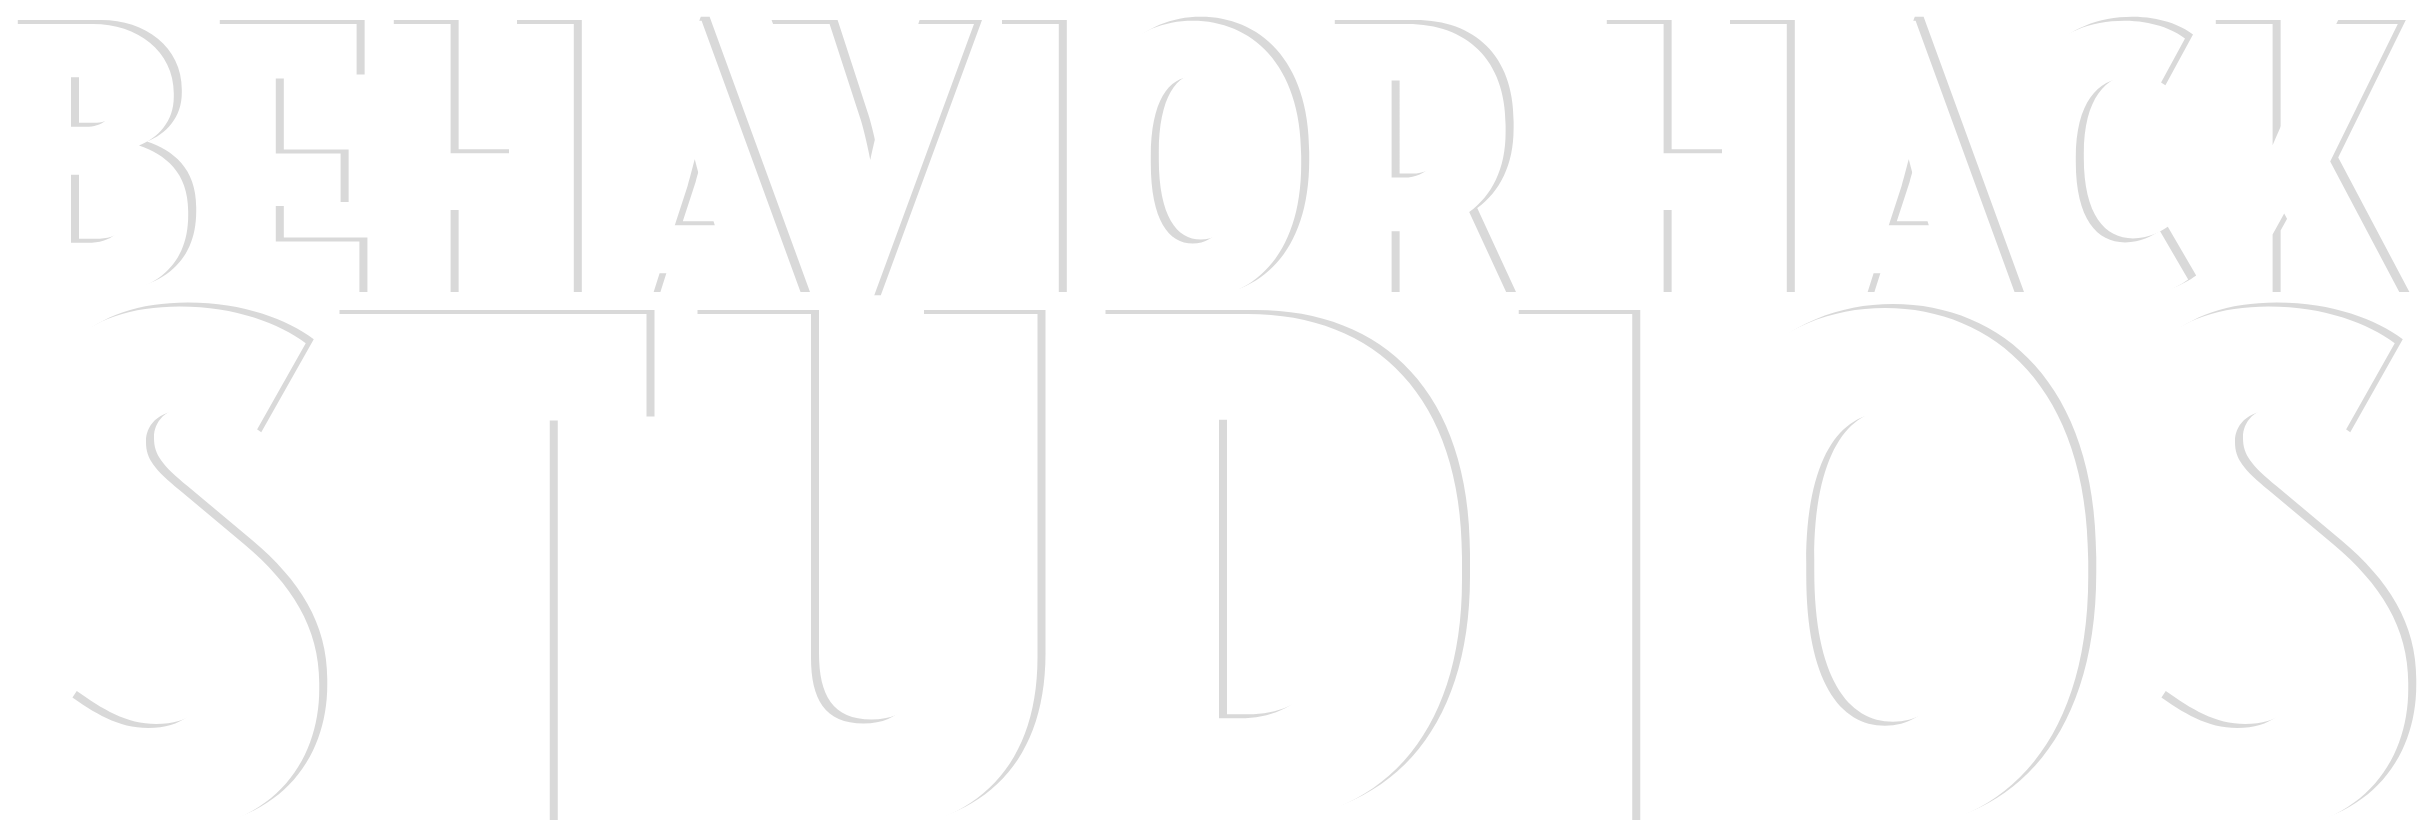
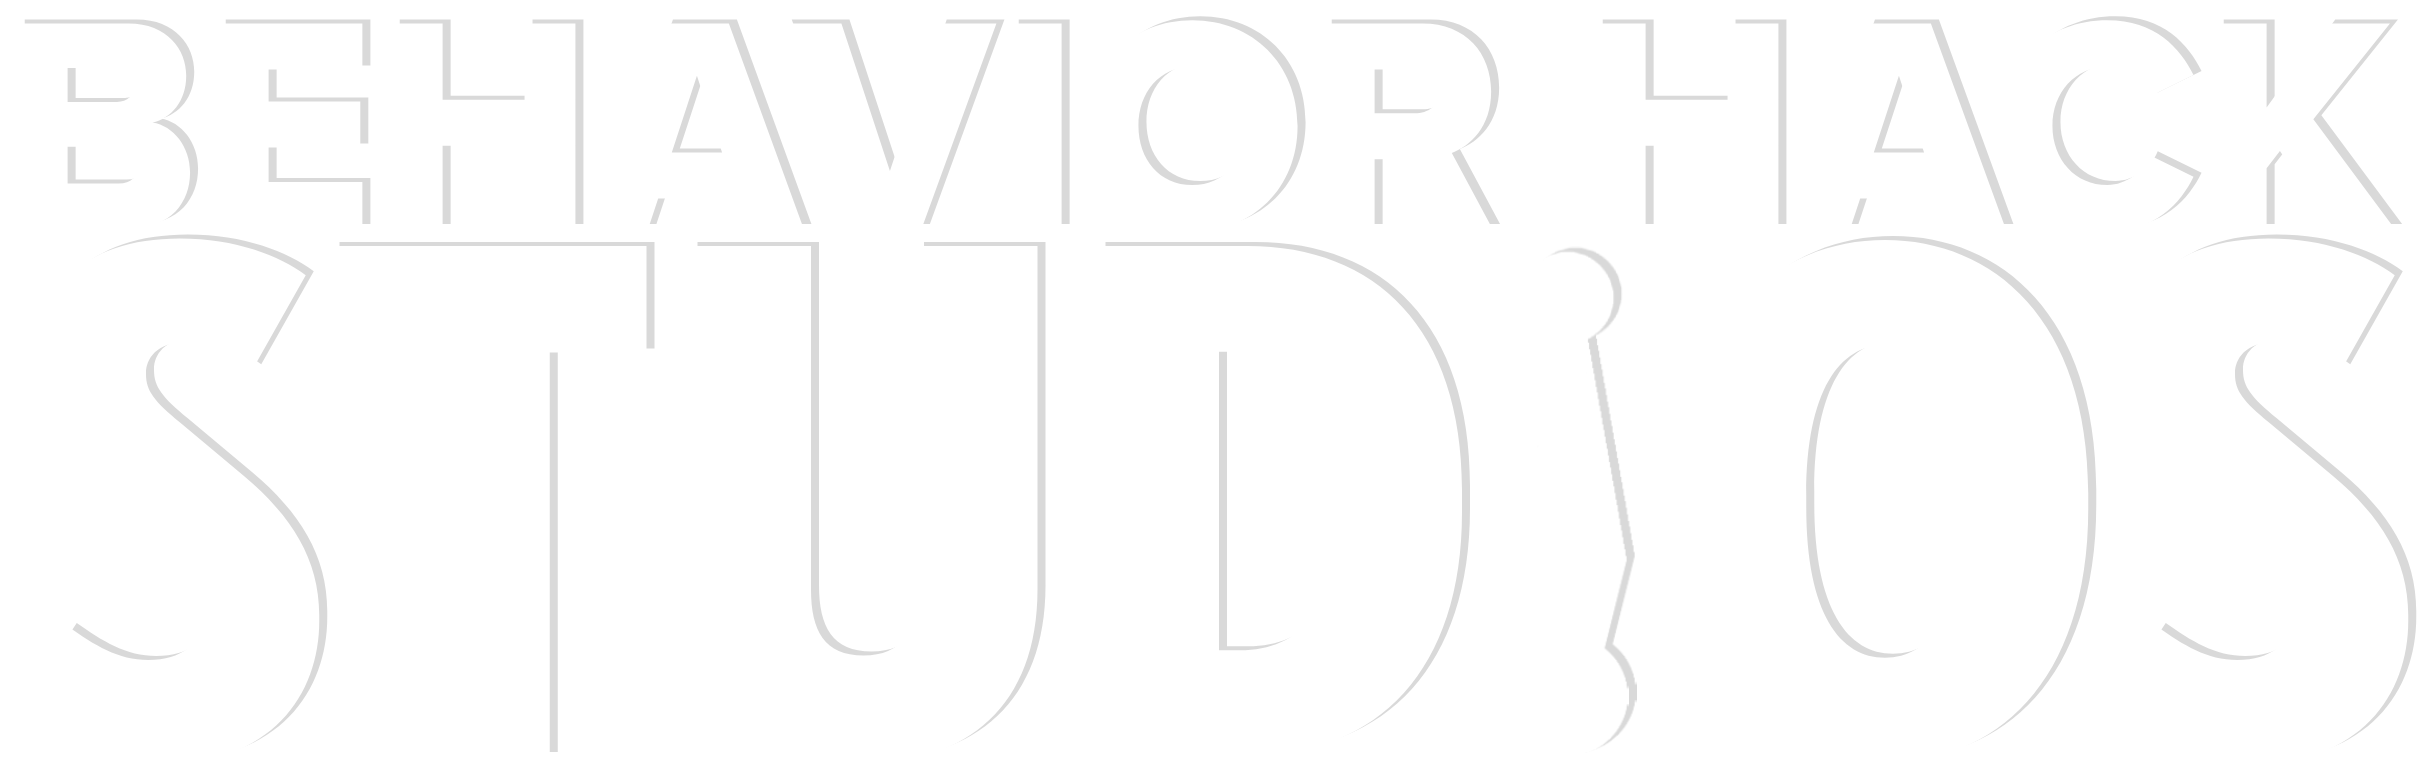
ss
ss

diff --git a/index.html b/index.html
@@ -126,7 +126,7 @@
     <main>
       <section class="hero" id="home">
         <div class="hero-card">
-          <h1>Behavior Hack Studios</h1>
+          <h1>Who are we?</h1>
           <p>Hello! We are a very small group of passionate indie developers who for the last while have been working on a ton of Skylanders fangames!</p>
           <p style="margin-top:8px">We eventually want to branch off and do our own things, We LOVE Skylanders more than we can express, but the world needs our talent, our ideas, and the worlds we make. Please, click below to check out some of our projects!</p>
           <a class="cta" href="#Projects">EXPLORE PROJECTS</a>
@@ -134,7 +134,7 @@
           <div style="margin-top:18px;display:flex;gap:10px;flex-wrap:wrap">
             <div style="background:rgba(135, 115, 226, 0.185);padding:10px;border-radius:12px;min-width:120px">
               <strong>Game Engines We Use:</strong>
-              Unity, TFBtool, Unreal Engine 5
+              Unity, TFBTool, Unreal Engine 5
             </div>
 
             
@@ -142,7 +142,7 @@
         </div>
 
         <div class="hero-image" aria-hidden="true">
-          <img src="Header6_26.png" alt="Skylanders header art">
+          <img src="Header6_26.png" alt=""PEAK IS BACK" - GECKO">
         </div>
       </section>
 